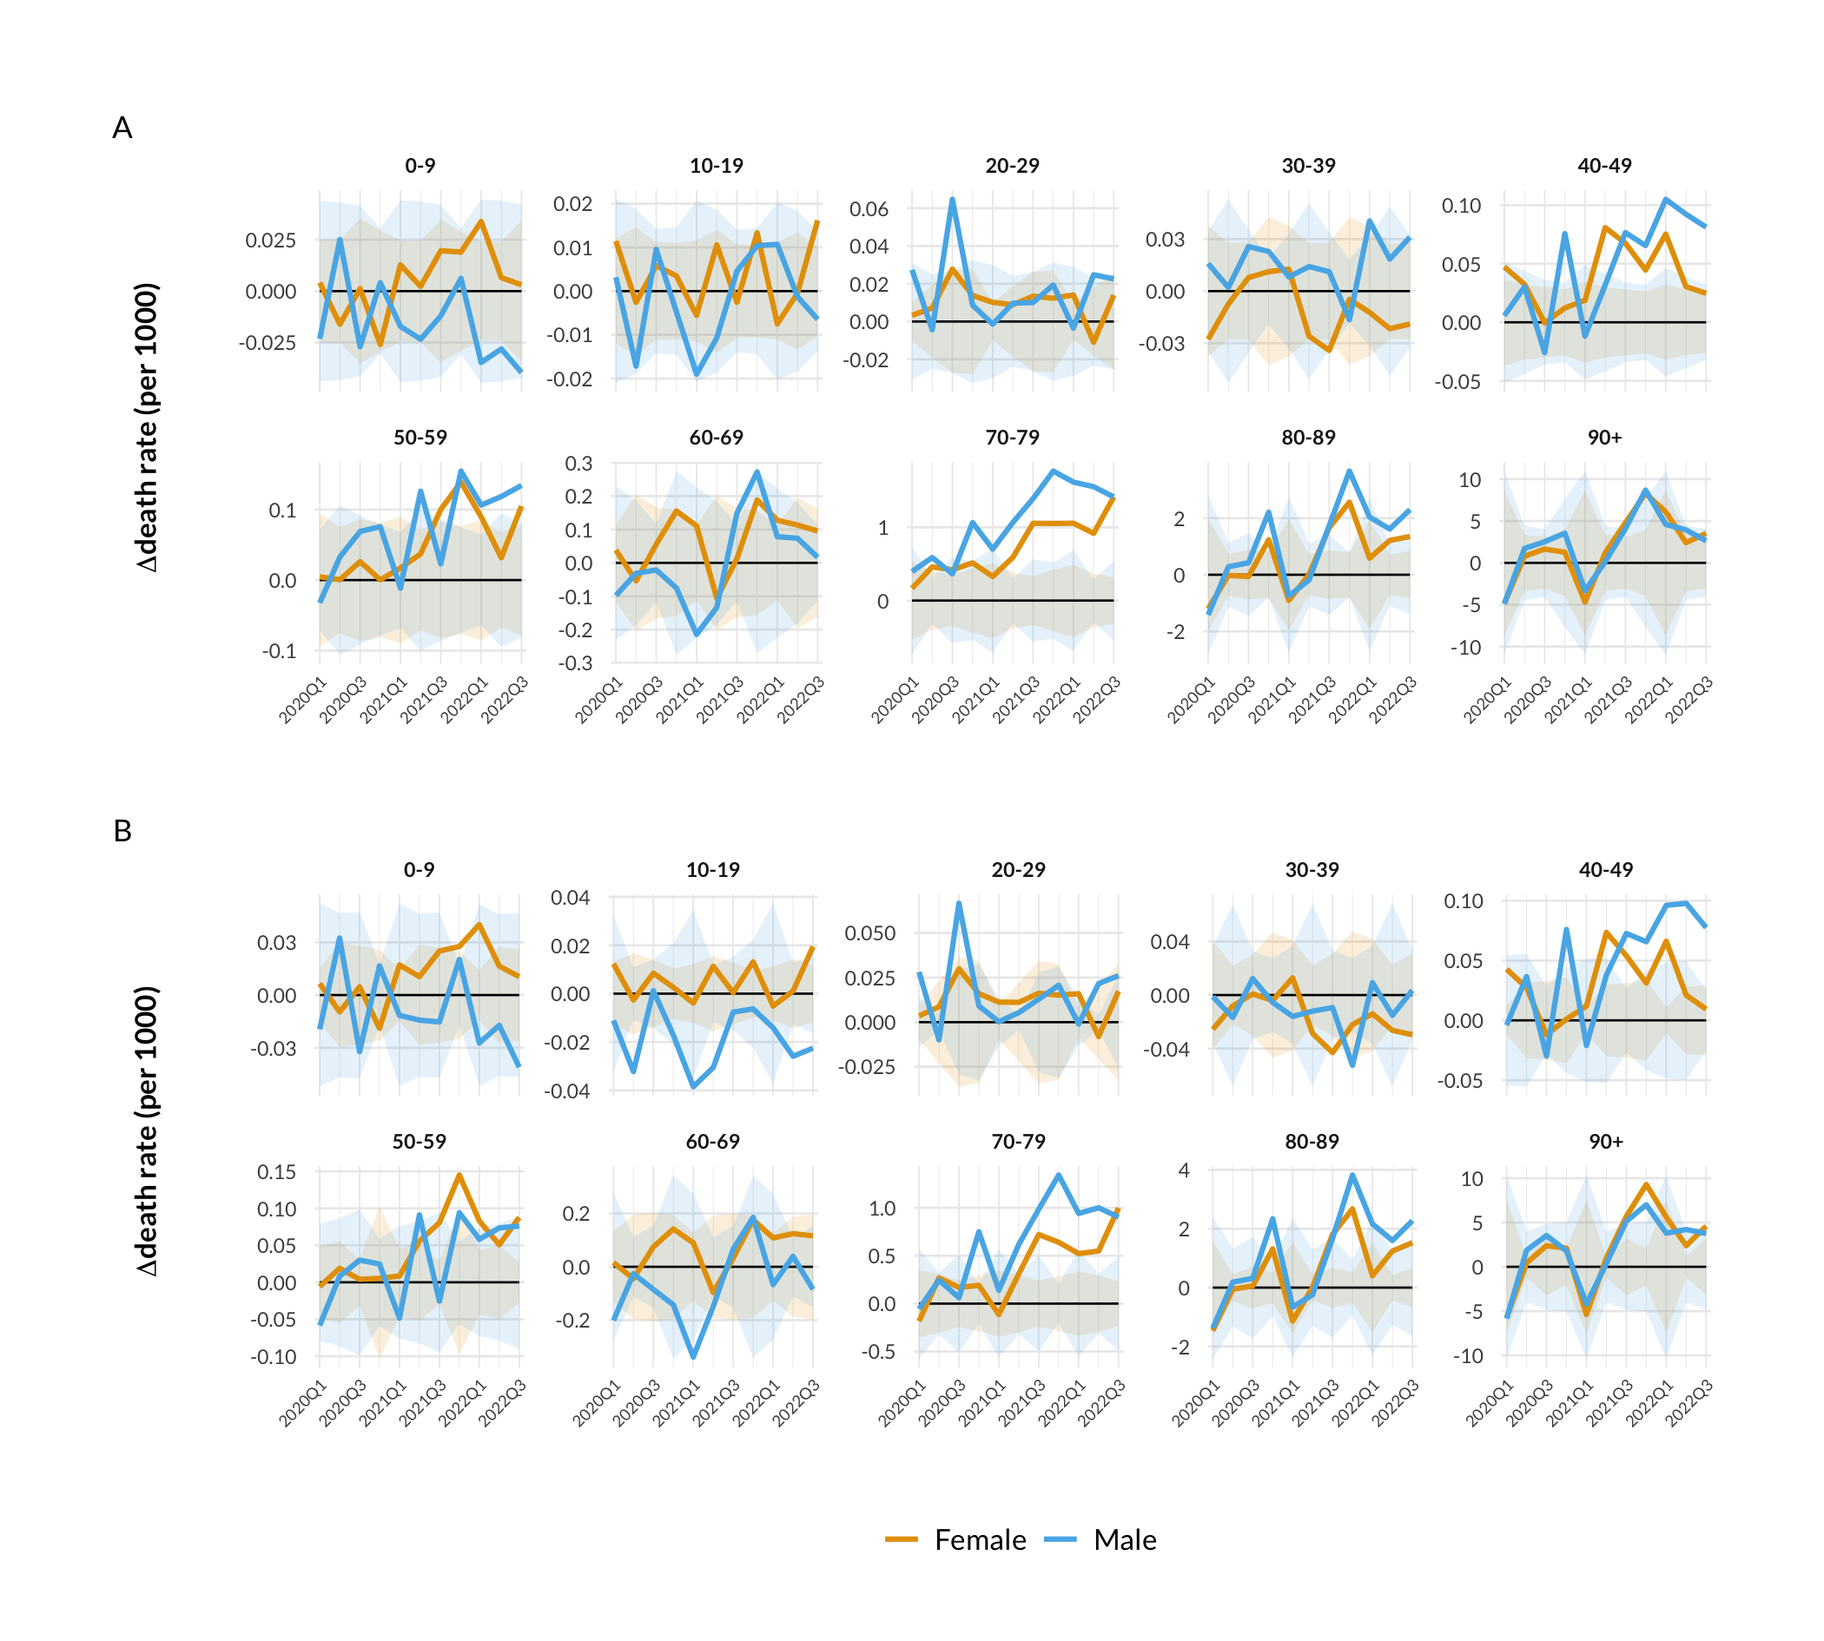
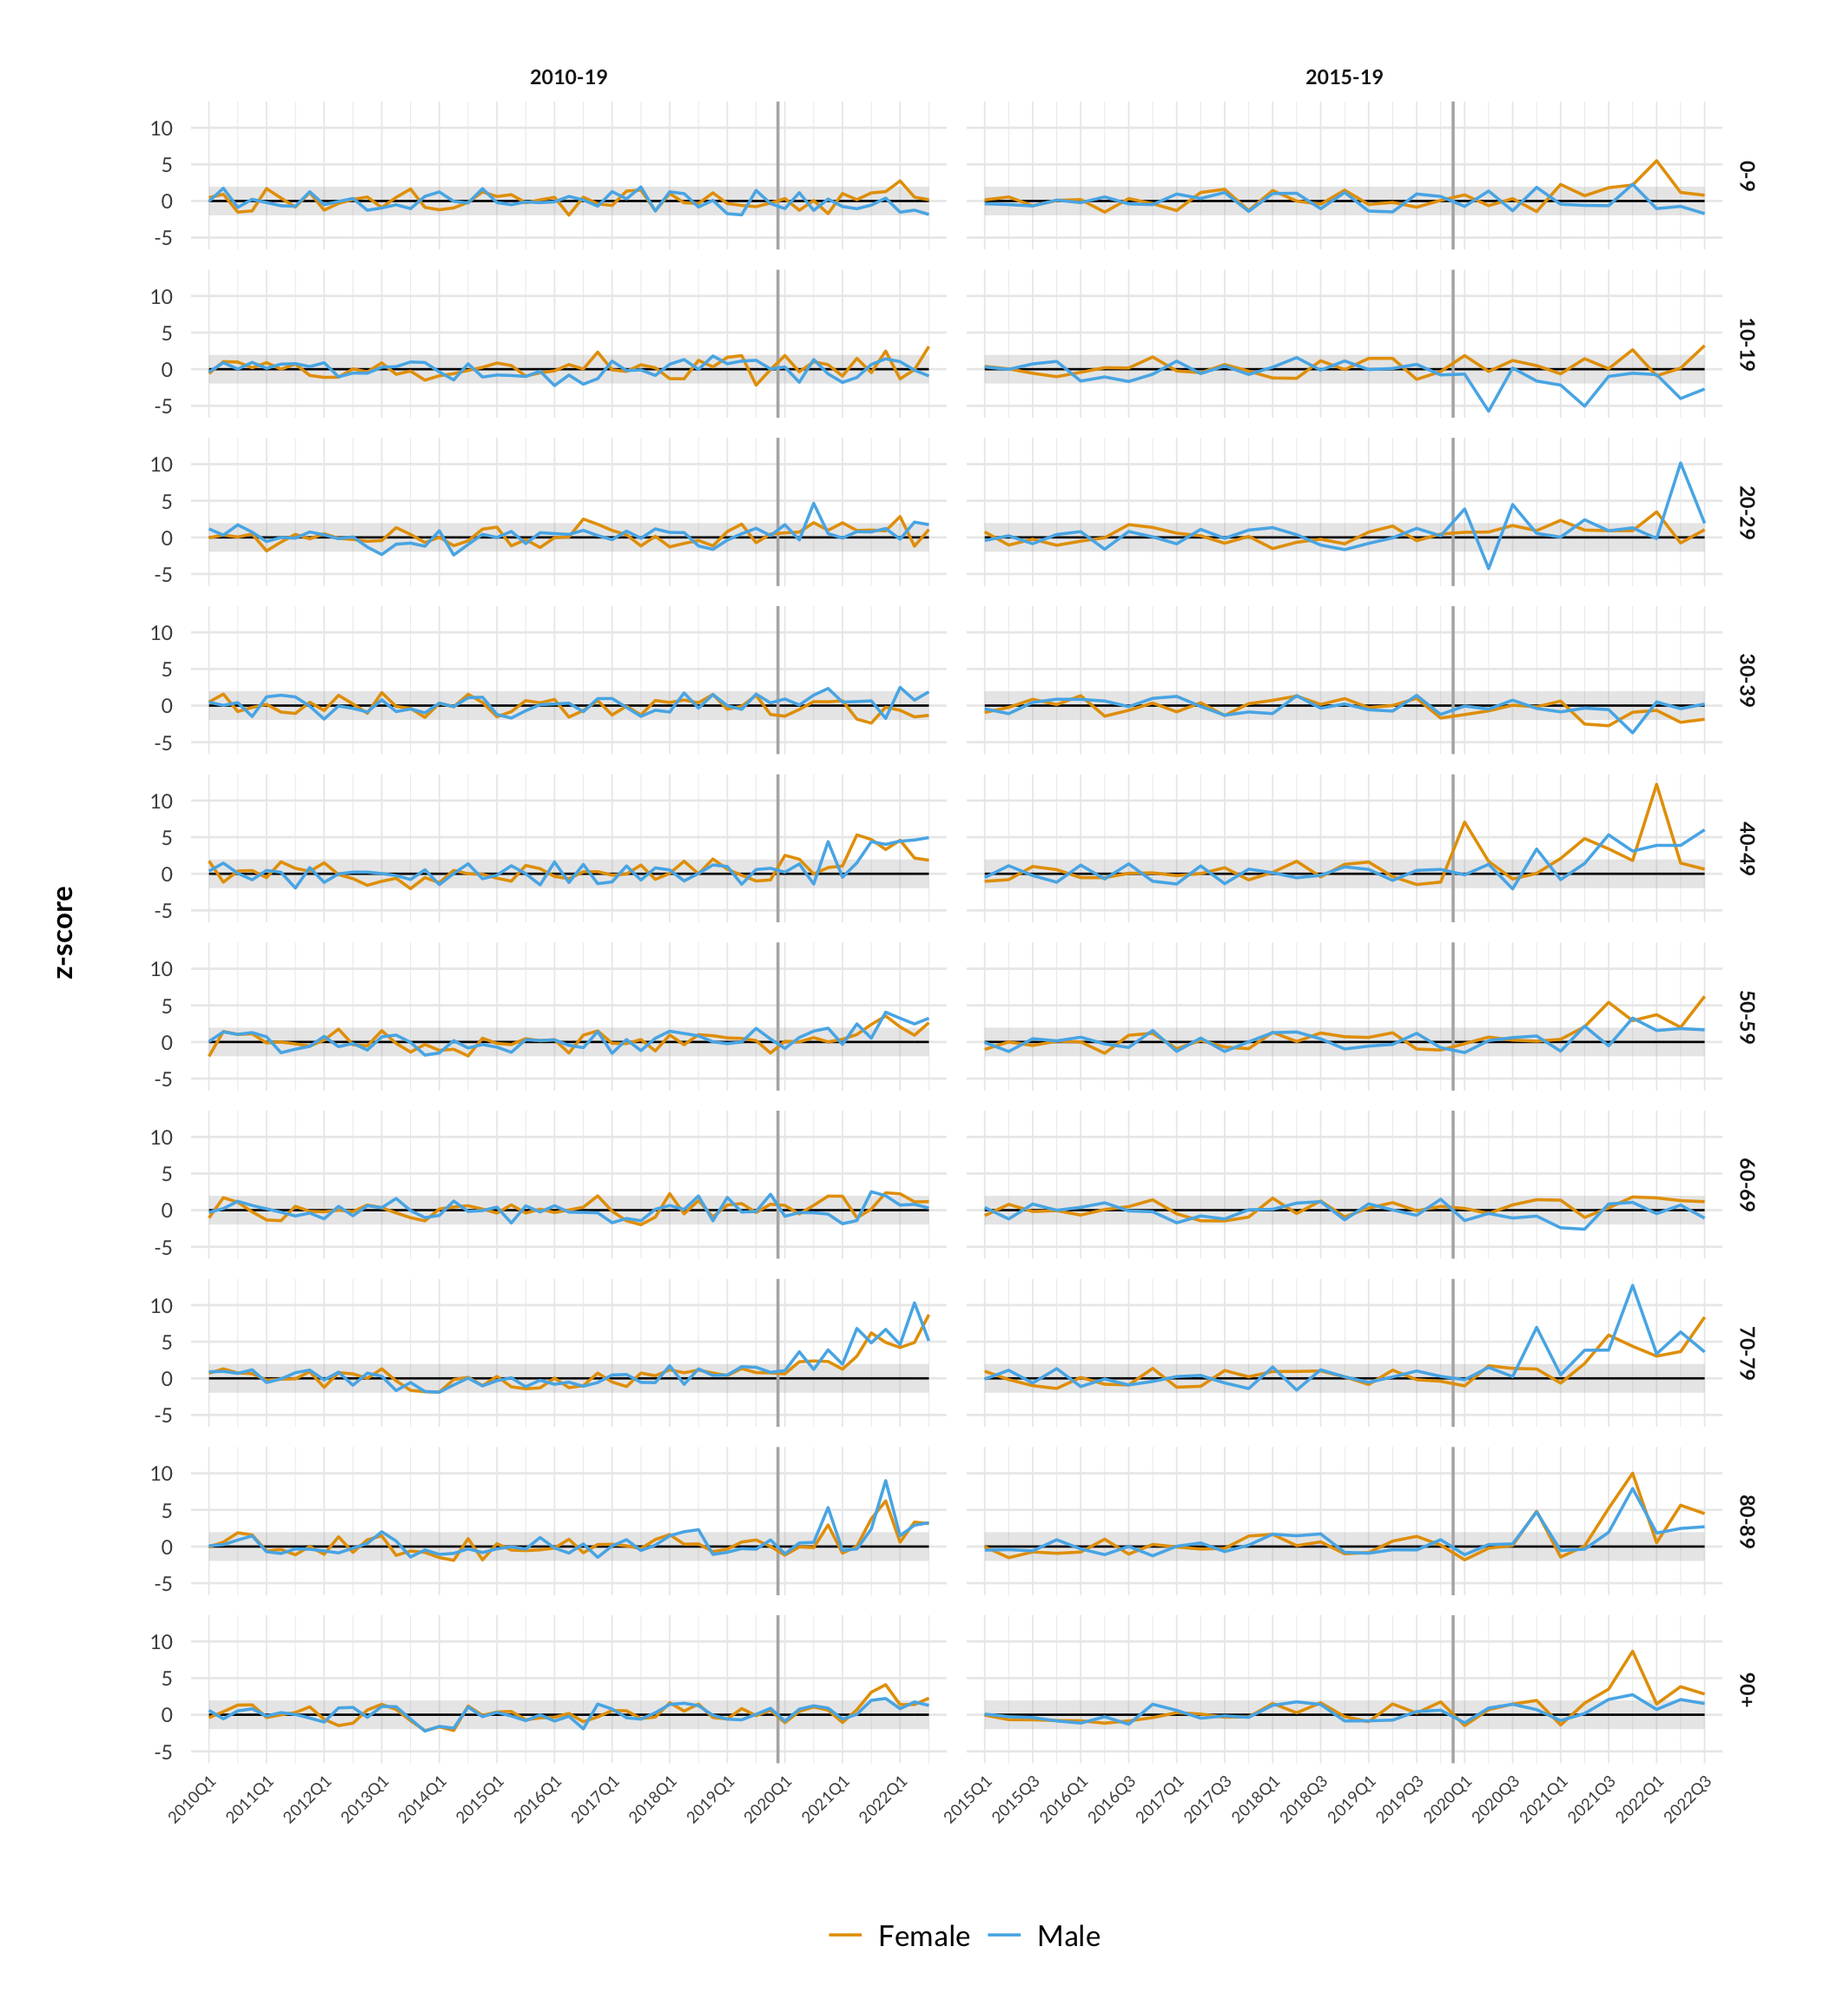
add z scores and edit text

diff --git a/README.md b/README.md
@@ -302,11 +302,13 @@ death rates, black lines indicate the season adjusted baselines, and the
 gray band indicate the 95% prediction interval. Sex is indicated on top,
 age on the right.*
 
-In the following figures (Figure 6 and 7), I show the difference between
-the observed death rates and season adjusted baselines (here called
+In Figure 6, I show the difference between the observed death rates and
+season adjusted baselines (here called
 ![\\Delta](https://latex.codecogs.com/png.image?%5Cdpi%7B110%7D&space;%5Cbg_white&space;%5CDelta "\Delta")death
 rates), in effect de-trending and de-seasonalizing the death rates and
-baselines.
+baselines. In Figure 7, the death rates are converted to z-scores which
+indicate how many standard deviations the death rates are from the
+baseline.
 
 ![**De-trended/de-seasonalized quarterly death rates and baselines.**
 (A) Baseline reference period 2010-19, and (B) baseline reference period
@@ -322,21 +324,14 @@ rates, black lines indicate the baselines, and the gray bands indicate
 the 95% prediction intervals. Sex is indicated on top, age on the
 right.*
 
-![**De-trended/de-seasonalized quarterly death rates and baselines for
-2020-2022.** (A) Baseline reference period 2010-19, and (B) baseline
-reference period 2015-19. Colored lines indicate the quarterly death
-rates for males (blue lines) and females (red lines), black lines
-indicate the baselines, and the transparent colored bands indicate the
-95% prediction intervals for males (blue) and females (red). Sex is
-indicted on top, age on the
-right.](README_files/figure-gfm/Figure-7-1.png)
+<!-- ***Figure 7: De-trended/de-seasonalized quarterly death rates and  baselines for 2020-2022.** (A) Baseline reference period 2010-19, and (B) baseline reference period 2015-19. Colored lines indicate the quarterly death rates for males  and females, black lines indicate the baselines, and the transparent colored bands indicate the 95% prediction intervals for males (blue) and females (yellow).* -->
 
-***Figure 7: De-trended/de-seasonalized quarterly death rates and
-baselines for 2020-2022.** (A) Baseline reference period 2010-19, and
-(B) baseline reference period 2015-19. Colored lines indicate the
-quarterly death rates for males and females, black lines indicate the
-baselines, and the transparent colored bands indicate the 95% prediction
-intervals for males (blue) and females (yellow).*
+![](README_files/figure-gfm/Figure-7-1.png)<!-- -->
+
+***Figure 7: Z-scores.** Colored lines indicate the quarterly death
+rates, black lines indicate the baselines, and the gray bands indicate
+the 95% prediction intervals. Baseline reference period is indicated on
+top, age on the right.*
 
 ### Summarizing excess deaths
 
@@ -456,9 +451,10 @@ pandemic period. Age group is indicated on the right.*
 
 To explore how sensitive the result is to the choice of stratification,
 I first used 5-year instead of 10-year age bins. The de-trended and
-de-seasonalized death rates and baselines are shown in Figure 14 and 15.
-The calculated excess deaths for this stratification are shown in Figure
-16. The numbers are lower than the numbers found using 10-year bins.
+de-seasonalized death rates and baselines are shown in Figure 14,
+z-scores in Figure 15. The calculated excess deaths for this
+stratification are shown in Figure 16, showing that excess death numbers
+are lower than those found using 10-year bins.
 
 ![**De-trended/de-seasonalized quarterly death rates and baselines using
 5-year age brackets.** (A) Baseline reference period 2010-19, and (B)
@@ -474,22 +470,12 @@ indicate the quarterly death rates, black lines indicate the baselines,
 and the gray bands indicate the 95% prediction intervals. Sex is
 indicted on top, age on the right.*
 
-![**De-trended/de-seasonalized quarterly death rates and baselines for
-2020-2022 using 5-year age brackets.** (A) Baseline reference period
-2010-19, and (B) baseline reference period 2015-19. Colored lines
-indicate the quarterly death rates for males (blue lines) and females
-(red lines), black lines indicate the baselines, and the transparent
-colored bands indicate the 95% prediction intervals for males (blue) and
-females (red). Sex is indicted on top, age on the
-right.](README_files/figure-gfm/Figure-15-1.png)
+![](README_files/figure-gfm/Figure-15-1.png)<!-- -->
 
-***Figure 15: De-trended/de-seasonalized quarterly death rates and
-baselines for 2020-2022 using 5-year age brackets.** (A) Baseline
-reference period 2010-19, and (B) baseline reference period 2015-19.
-Colored lines indicate the quarterly death rates for males and females ,
-black lines indicate the baselines, and the transparent colored bands
-indicate the 95% prediction intervals for males (blue) and females
-(red).*
+***Figure 15: Z-scores using 5-year bins.** Colored lines indicate the
+quarterly death rates, black lines indicate the baselines, and the gray
+bands indicate the 95% prediction intervals. Baseline reference period
+is indicated on top, age on the right.*
 
 ![](README_files/figure-gfm/Figure-16-1.png)<!-- -->
 
@@ -497,18 +483,14 @@ indicate the 95% prediction intervals for males (blue) and females
 depending on baseline reference period using 5-year brackets.** Excess
 deaths are defined as deaths exceeding the season adjusted baseline +/-
 the 95% prediction interval in a given quarter. Baseline period is
-indicated on the x-axis.*
+indicated on the x-axis. Ages 0-19 are omitted.*
 
 Then, I tried other stratifications, namely 10- and 5-year age bins but
 without stratifying for sex, and a completely non-stratified dataset.
 The excess death rates for all baselines and stratifications are shown
-in Figure 17. To check how much of the differences are explained by
-calculating excess deaths as those exceeding an interval,
-
-*Should be edited: I also calculated excess deaths compared to the mean
-season adjusted baseline itself (Figure 18) and found a bit less impact
-of stratification. So the impact of stratification can be explained both
-by the prediction intervals and the baselines themselves*
+in Figure 17. This sensitivity analysis is specific for this method and
+this dataset. Other methods or datasets may display different
+sensitivities to baseline choice or stratification.
 
 ![**Excess deaths per 100,000 of the total Danish population for the
 period 2020 Q1 - 2022 Q3 for stratified and non-stratified data
@@ -521,6 +503,14 @@ Q1 - 2022 Q3 for stratified and non-stratified data depending on
 baseline reference period.** Excess deaths are defined as deaths
 exceeding the season adjusted baseline +/- the 95% prediction in a given
 quarter. Baseline reference period is indicated on the x-axis.*
+
+To check how much of the differences are explained by calculating excess
+deaths as those deaths exceeding an interval, I also calculated deaths
+compared to the season adjusted baseline itself (Figure 18), which
+equals setting the prediction interval to 0. This results in a bit less
+impact of stratification, so the impact of stratification can be
+explained both by the width of the prediction intervals and the
+baselines themselves\*
 
 ![](README_files/figure-gfm/Figure-18-1.png)<!-- -->
 
@@ -538,25 +528,24 @@ to pre-pandemic baseline rates using a very simple model. The simplicity
 allows for transparency into the model choices that impact how much
 excess mortality is measured during the pandemic. These choices include
 choice of the reference period, choice of stratification, and choice of
-threshold for normal variability. The sensitivity analysis is specific
-for this method and this dataset. Other methods or datasets may be more
-or less sensitive to e.g. baseline choice or stratification.
+threshold for normal variability.
+
+-   Affected age groups over time during the pandemic.
 
 -   Reference period matters a lot. The best reference period may not be
     the same across age groups. Depends on linearity of trend and the
     occurence of special years with high or low mortality affecting age
     groups differently.
 
--   Stratification
+-   Stratification matters somewhat. Using 5-year bins results in less
+    excess death compare to using 10-year bins. Stratifying for sex does
+    not make a huge difference.
 
 -   What is normal?
 
--   Excess deaths by quarter (or shorter intervals) may underestimate
-    excess deaths over longer time periods. For example if the death
-    rates for a group are above the baseline but within the prediction
-    interval for the whole period of 2020-22, it will not count as
-    excess death, but may still be unusual for a three-year period. One
-    could instead compare deaths over a similar time span during the
-    reference period.
+-   Excess deaths by quarter (or shorter intervals) may give a different
+    estimation of excess deaths when cumulating over longer time
+    periods, than calculating using longer periods (e.g. one or more
+    years). I have not explored that.
 
 -   …
